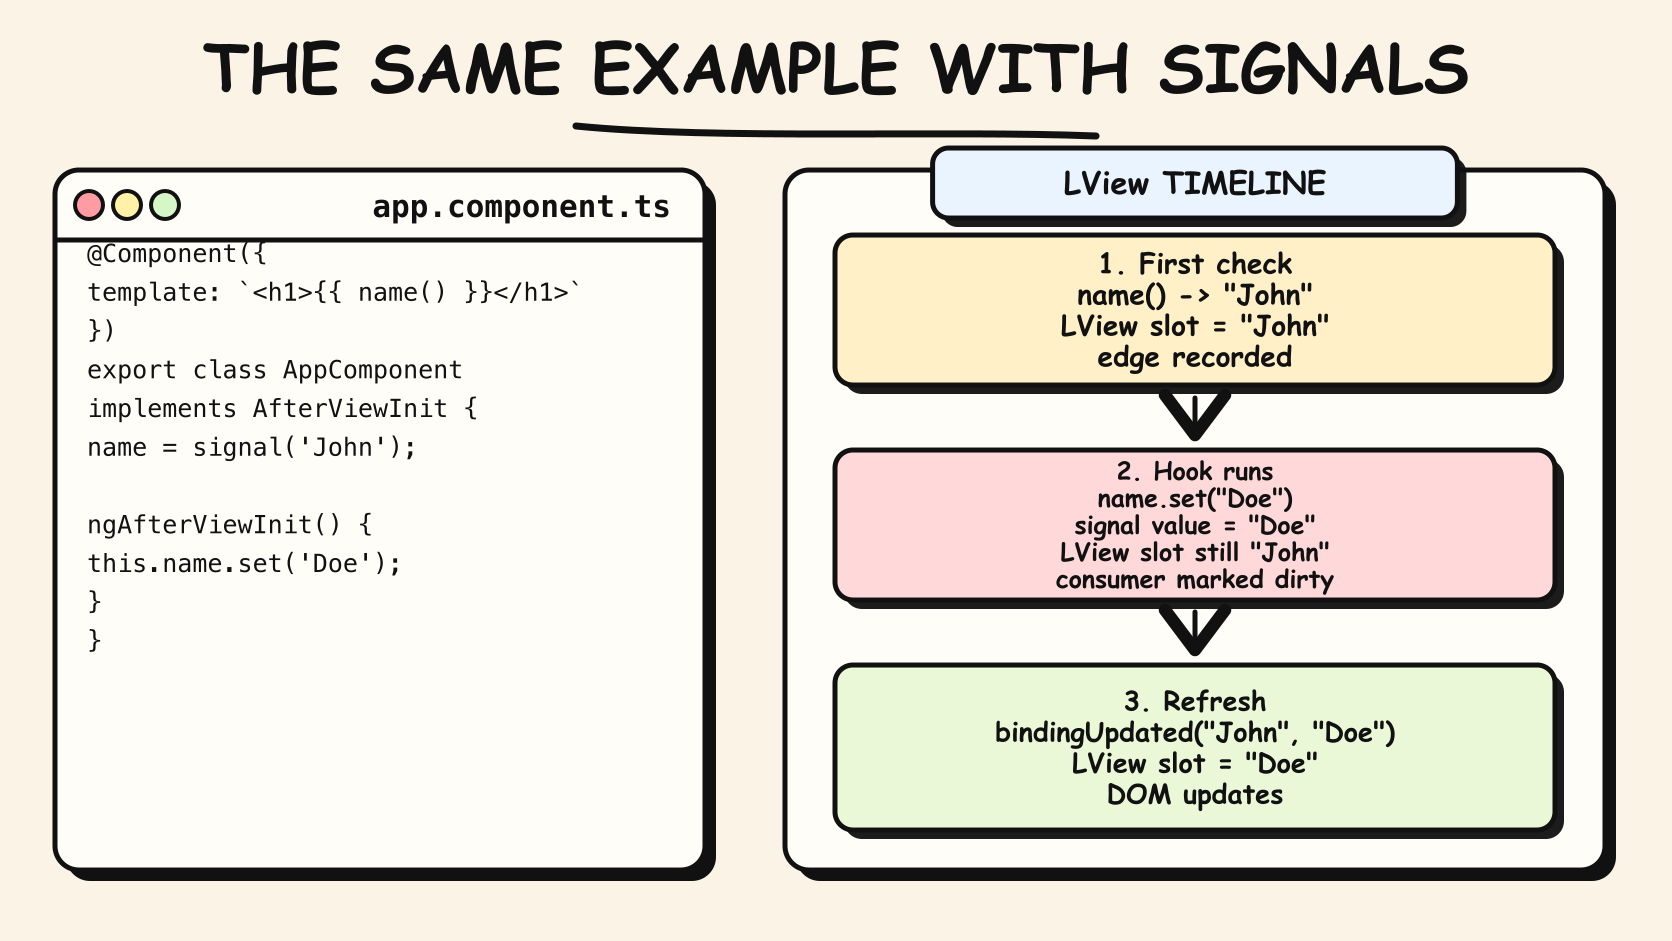
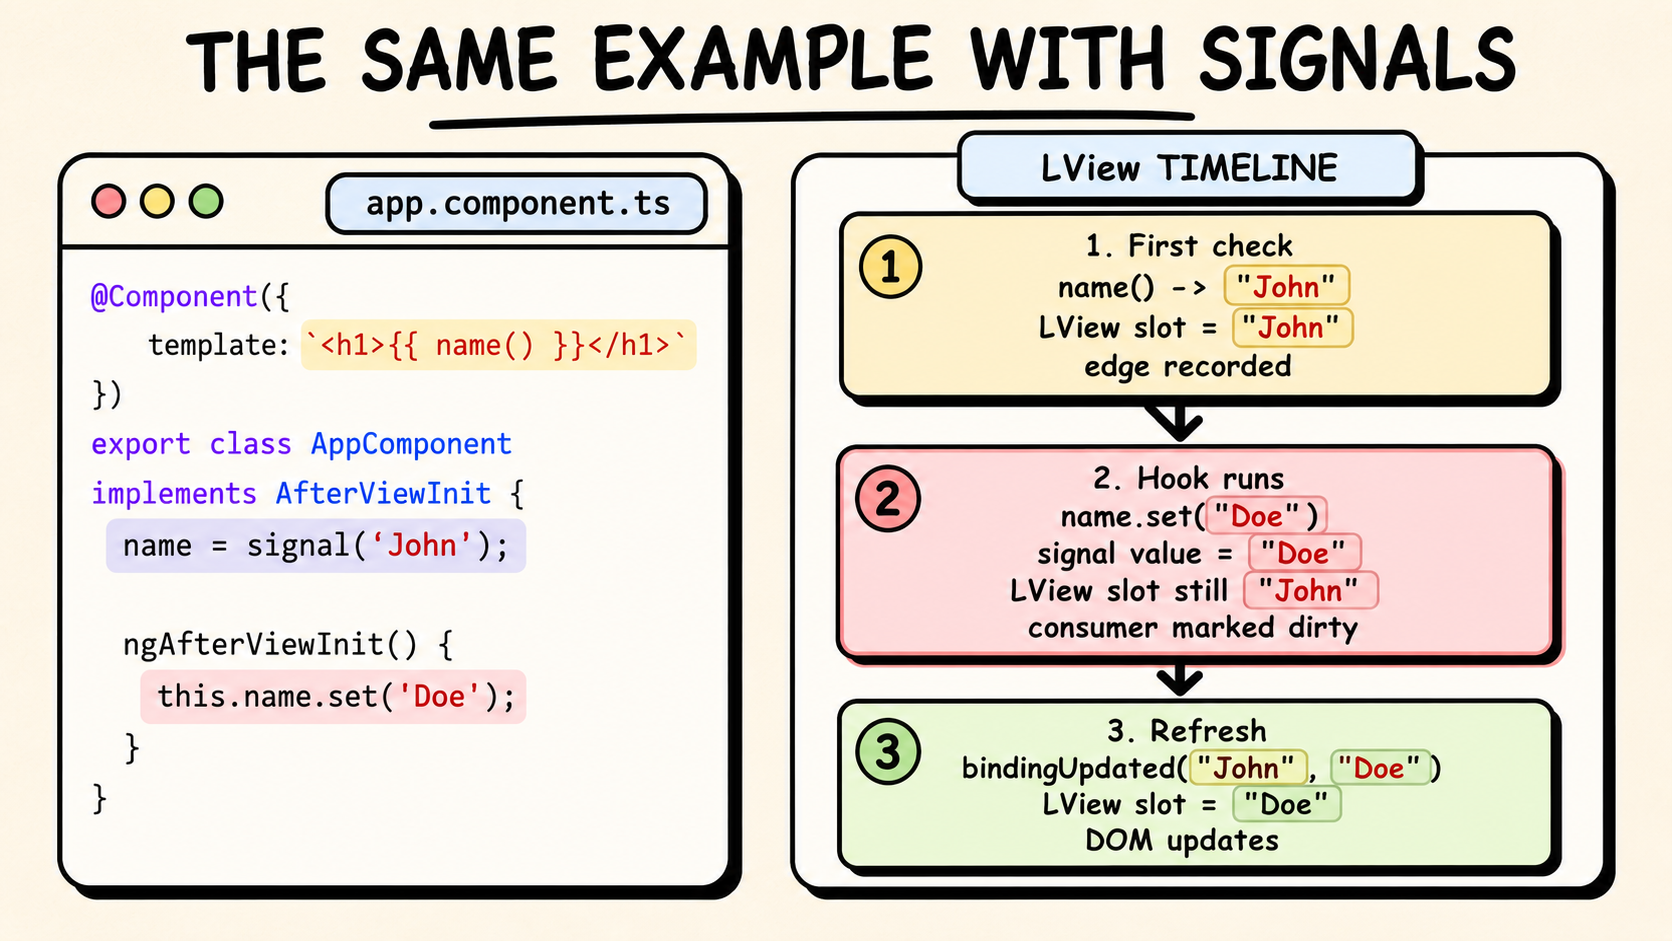
feat: refine speaker notes for clarity in Angular Signals talk

diff --git a/presentation.md b/presentation.md
@@ -46,9 +46,7 @@
 ## Slide 1.3 — Stack Overflow
 
 > **Speaker note:**
-> "I did what every developer did, I went to our old friend Stack Overflow.
->
-> I found the this solution that wrap the mutation in a `setTimeout`.
+> "I went to Stack Overflow and found the this solution that wrap the mutation in a `setTimeout`.
 >
 > I tried it, and the error disappeared like a magic.
 >